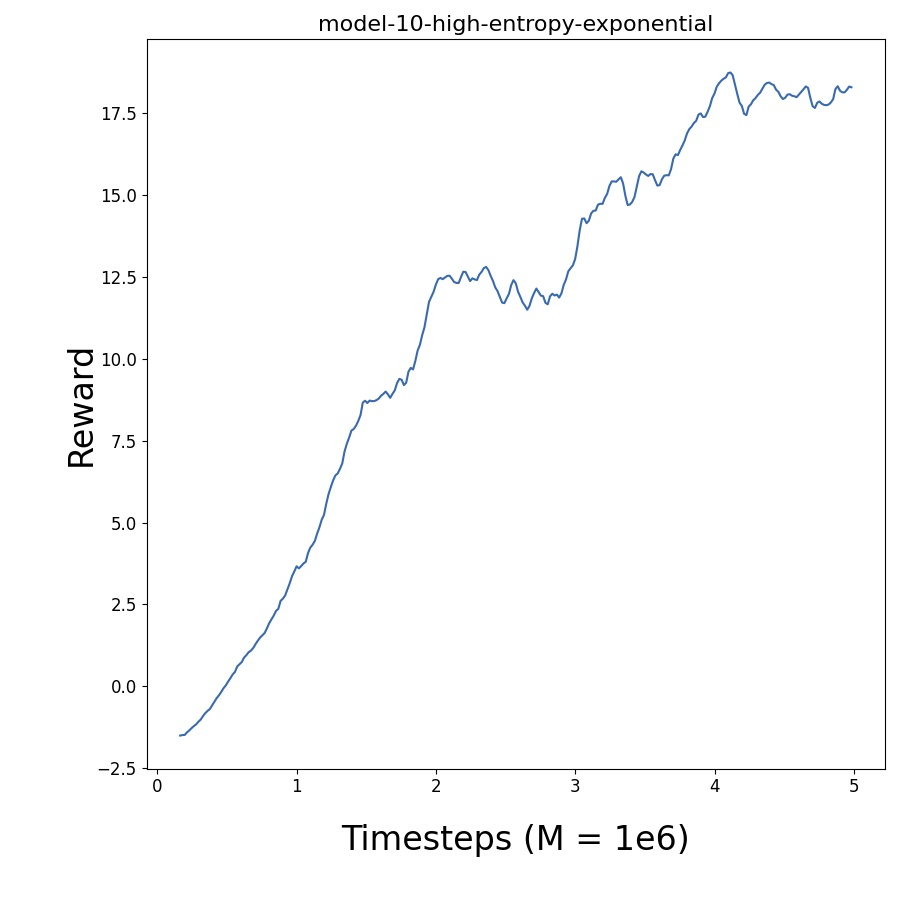
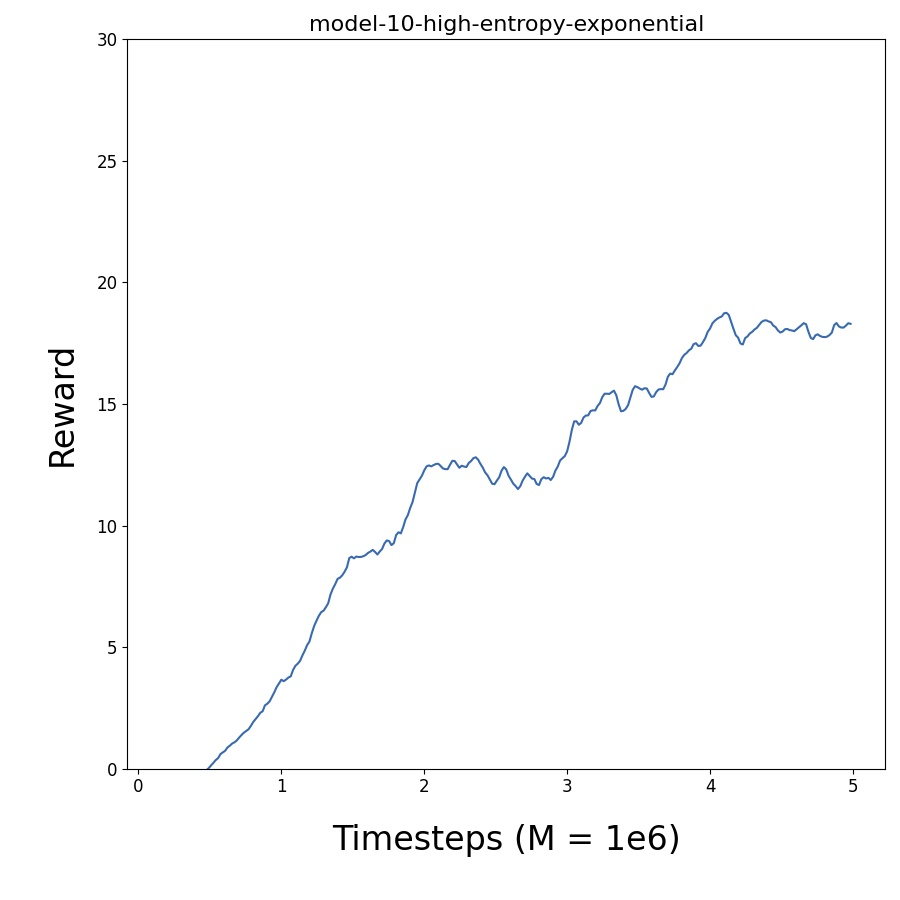
Modify and generate more plots

diff --git a/train_procgen/graph_util.py b/train_procgen/graph_util.py
@@ -7,7 +7,8 @@ from constants import ENV_NAMES
 
 import seaborn # sets some style parameters automatically
 
-COLORS = [(57, 106, 177), (218, 124, 48)]
+COLORS = [(57, 106, 177), (218, 124, 48), (230, 96, 0), (0, 186, 74), (131, 0, 145)]
+#              blue            yellow        orange        green          purple
 
 def switch_to_outer_plot(fig):
     ax0 = fig.add_subplot(111, frame_on=False)
@@ -31,9 +32,11 @@ def ema(data_in, smoothing=0):
 
     return data_out
 
-def plot_data_mean_std(ax, data_y, color_idx=0, data_x=None, x_scale=1, smoothing=0, first_valid=0, label=None):
+def plot_data_mean_std(ax, data_y, color_idx=0, data_x=None, x_scale=1, smoothing=0, first_valid=0, label=None, id=0):
     color = COLORS[color_idx]
-    hexcolor = '#%02x%02x%02x' % color
+    # hexcolor1 = '#%02x%02x%02x' % color
+    # hexcolor2 = '#%02x%02x%02x' % COLORS[1]
+    plot_colors = ['#%02x%02x%02x' % i for i in COLORS]
 
     data_y = data_y[:,first_valid:]
     nx, num_datapoint = np.shape(data_y)
@@ -47,9 +50,37 @@ def plot_data_mean_std(ax, data_y, color_idx=0, data_x=None, x_scale=1, smoothin
 
     data_mean = np.mean(data_y, axis=0)
     data_std = np.std(data_y, axis=0, ddof=1)
+    
 
-    ax.plot(data_x, data_mean, color=hexcolor, label=label, linestyle='solid', alpha=1, rasterized=True)
-    ax.fill_between(data_x, data_mean - data_std, data_mean + data_std, color=hexcolor, alpha=.25, linewidth=0.0, rasterized=True)
+    if id == 0:
+        ax.plot(data_x, data_mean, color=plot_colors[0], label="Baseline", linestyle='-', alpha=1, rasterized=True)
+    
+    elif id == 1:
+        ax.plot(data_x, data_mean, color=plot_colors[3], label="Baseline Linear", linestyle='-', alpha=1, rasterized=True)
+    elif id == 2:
+        ax.plot(data_x, data_mean, color=plot_colors[4], label="Baseline Piecewise", linestyle='-', alpha=1, rasterized=True)
+    elif id == 3:
+        ax.plot(data_x, data_mean, color=plot_colors[2], label="Baseline Exponential", linestyle='-', alpha=1, rasterized=True)
+    elif id == 4:
+        ax.plot(data_x, data_mean, color=plot_colors[0], label="High Entropy", linestyle=':', alpha=1, rasterized=True)
+    elif id == 5:
+        ax.plot(data_x, data_mean, color=plot_colors[3], label="High Entropy Linear", linestyle=':', alpha=1, rasterized=True)
+    elif id == 6:
+        ax.plot(data_x, data_mean, color=plot_colors[4], label="High Entropy Piecewise", linestyle=':', alpha=1, rasterized=True)
+    elif id == 7:
+        ax.plot(data_x, data_mean, color=plot_colors[2], label="High Entropy Exponential", linestyle=':', alpha=1, rasterized=True)
+    
+    # elif id == 1:
+    #     ax.plot(data_x, data_mean, color=plot_colors[0], label="High Entropy", linestyle=':', alpha=1, rasterized=True)
+    # elif id == 2:
+    #     ax.plot(data_x, data_mean, color=plot_colors[3], label="High Entropy Linear", linestyle=':', alpha=1, rasterized=True)
+    # elif id == 3:
+    #     ax.plot(data_x, data_mean, color=plot_colors[4], label="High Entropy Piecewise", linestyle=':', alpha=1, rasterized=True)
+    # elif id == 4:
+    #     ax.plot(data_x, data_mean, color=plot_colors[2], label="High Entropy Exponential", linestyle=':', alpha=1, rasterized=True)
+
+    # ax.fill_between(data_x, data_mean - data_std, data_mean + data_std, color=hexcolor1, alpha=.25, linewidth=0.0, rasterized=True)
+    ax.legend(loc='best')
 
 def read_csv(filename, key_name):
     with open(filename) as csv_file:
@@ -73,7 +104,8 @@ def plot_values(ax, all_values, title=None, max_x=0, label=None, **kwargs):
         all_values = all_values[...,:max_x]
 
     if ax is not None:
-        plot_data_mean_std(ax, all_values, label=label, **kwargs)
+        for i in range(len(all_values)):
+            plot_data_mean_std(ax, all_values[i, :].reshape((1, len(all_values[0]))), label=label, id=i, **kwargs)
         ax.set_title(title)
         ax.set_ylim([0, 30])
 
@@ -81,8 +113,11 @@ def plot_values(ax, all_values, title=None, max_x=0, label=None, **kwargs):
 
 def plot_experiment(run_directory_prefix, titles=None, suffixes=[''], normalization_ranges=None, key_name='eprewmean', **kwargs):
     # run_folders = [f'{run_directory_prefix}{x}' for x in range(3)]
-    run_folders = [run_directory_prefix]
-    # print("RUN_FOLDERS:", run_folders)
+    if type(run_directory_prefix) is list:
+        run_folders = run_directory_prefix
+    else:
+        run_folders = [run_directory_prefix]
+    print("RUN_FOLDERS:", run_folders)
 
     num_envs = len(ENV_NAMES)
     will_normalize_and_reduce = normalization_ranges is not None
@@ -114,8 +149,15 @@ def plot_experiment(run_directory_prefix, titles=None, suffixes=[''], normalizat
             csv_files = [f"{resid}/progress.csv" for resid in run_folders]
             curr_ax = None if will_normalize_and_reduce else ax
 
+            print(csv_files)
+
             raw_data = np.array([read_csv(file, key_name) for file in csv_files])
-            values = plot_values(curr_ax, raw_data, title=run_directory_prefix, color_idx=suffix_idx, label=label, **kwargs)
+            if type(run_directory_prefix) is list:
+                print(raw_data.shape[0])
+                values = plot_values(curr_ax, raw_data, title="Baseline Runs", color_idx=suffix_idx, label=label, **kwargs)
+            else:
+                print(raw_data.shape[0])
+                values = plot_values(curr_ax, raw_data, title=run_directory_prefix, color_idx=suffix_idx, label=label, **kwargs)
 
     if len(suffixes) > 1:
         if num_visible_plots == 1:

diff --git a/train_procgen/graph.py b/train_procgen/graph.py
@@ -21,7 +21,12 @@ def main():
     if args.save:
         suffix = '-mean' if args.normalize_and_reduce else ''
         # plt.savefig(f'results/{run_directory_prefix}{suffix}.pdf')
-        plt.savefig(f'results/{run_directory_prefix}{suffix}.jpg')
+
+        if type(run_directory_prefix) is list:
+            plt.savefig(f'results/Baseline_Reward{suffix}.jpg')
+        else:
+            plt.savefig(f'results/{run_directory_prefix}{suffix}.jpg')
+        
     else:
         plt.show()
 
@@ -31,7 +36,7 @@ def main_pcg_sample_entry(distribution_mode, normalize_and_reduce, restrict_trai
         'ytick.labelsize': 12,
         'axes.titlesize': 16,
         'axes.labelsize': 24,
-        'legend.fontsize': 18,
+        'legend.fontsize': 16,
         'figure.figsize': [9, 9]
     }
     matplotlib.rcParams.update(params)
@@ -44,12 +49,35 @@ def main_pcg_sample_entry(distribution_mode, normalize_and_reduce, restrict_trai
         normalization_ranges = EASY_GAME_RANGES
 
     y_label = 'Reward'
+    # y_label = 'Loss due to Entropy'
     x_label = 'Timesteps (M = 1e6)'
 
     # run_directory_prefix = f"{distribution_mode}-{num_train_levels if restrict_training_set else 'all'}"
-    run_directory_prefix = "model-14-high-entropy-piecewise"
+    run_directory_prefix = "model-14-baseline-piecewise"
     
-    # kwargs['run_directory_prefix'] = f"{run_directory_prefix}-run"
+    # run_directory_prefix = ["model-5-baseline",
+    #                                   "model-12-baseline-linear",
+    #                                   "model-14-baseline-piecewise",
+    #                                   "model-13-baseline-exponential",
+    #                                   "model-9-high-entropy",
+    #                                   "model-11-high-entropy-linear",
+    #                                   "model-15-high-entropy-piecewise",
+    #                                   "model-10-high-entropy-exponential"
+    #                                   ]
+
+    run_directory_prefix = ["model-5-baseline",
+                                      "model-12-baseline-linear",
+                                      "model-14-baseline-piecewise",
+                                      "model-13-baseline-exponential"
+                                      ]
+
+    # run_directory_prefix = ["model-5-baseline",
+    #                                   "model-9-high-entropy",
+    #                                   "model-11-high-entropy-linear",
+    #                                   "model-15-high-entropy-piecewise",
+    #                                   "model-10-high-entropy-exponential"
+    #                                   ]
+
     kwargs['run_directory_prefix'] = run_directory_prefix
 
     # We throw out the first few datapoints to give the episodic reward buffers time to fill up
@@ -63,7 +91,8 @@ def main_pcg_sample_entry(distribution_mode, normalize_and_reduce, restrict_trai
         kwargs['normalization_ranges'] = normalization_ranges
         y_label = 'Mean Normalized Score'
 
-    fig, axarr = plot_experiment(**kwargs)
+    fig, axarr = plot_experiment(key_name = 'eprewmean', **kwargs)
+    # fig, axarr = plot_experiment(key_name = 'loss/policy_entropy', **kwargs)
 
     if normalize_and_reduce:
         axarr.set_xlabel(x_label, labelpad=20)
